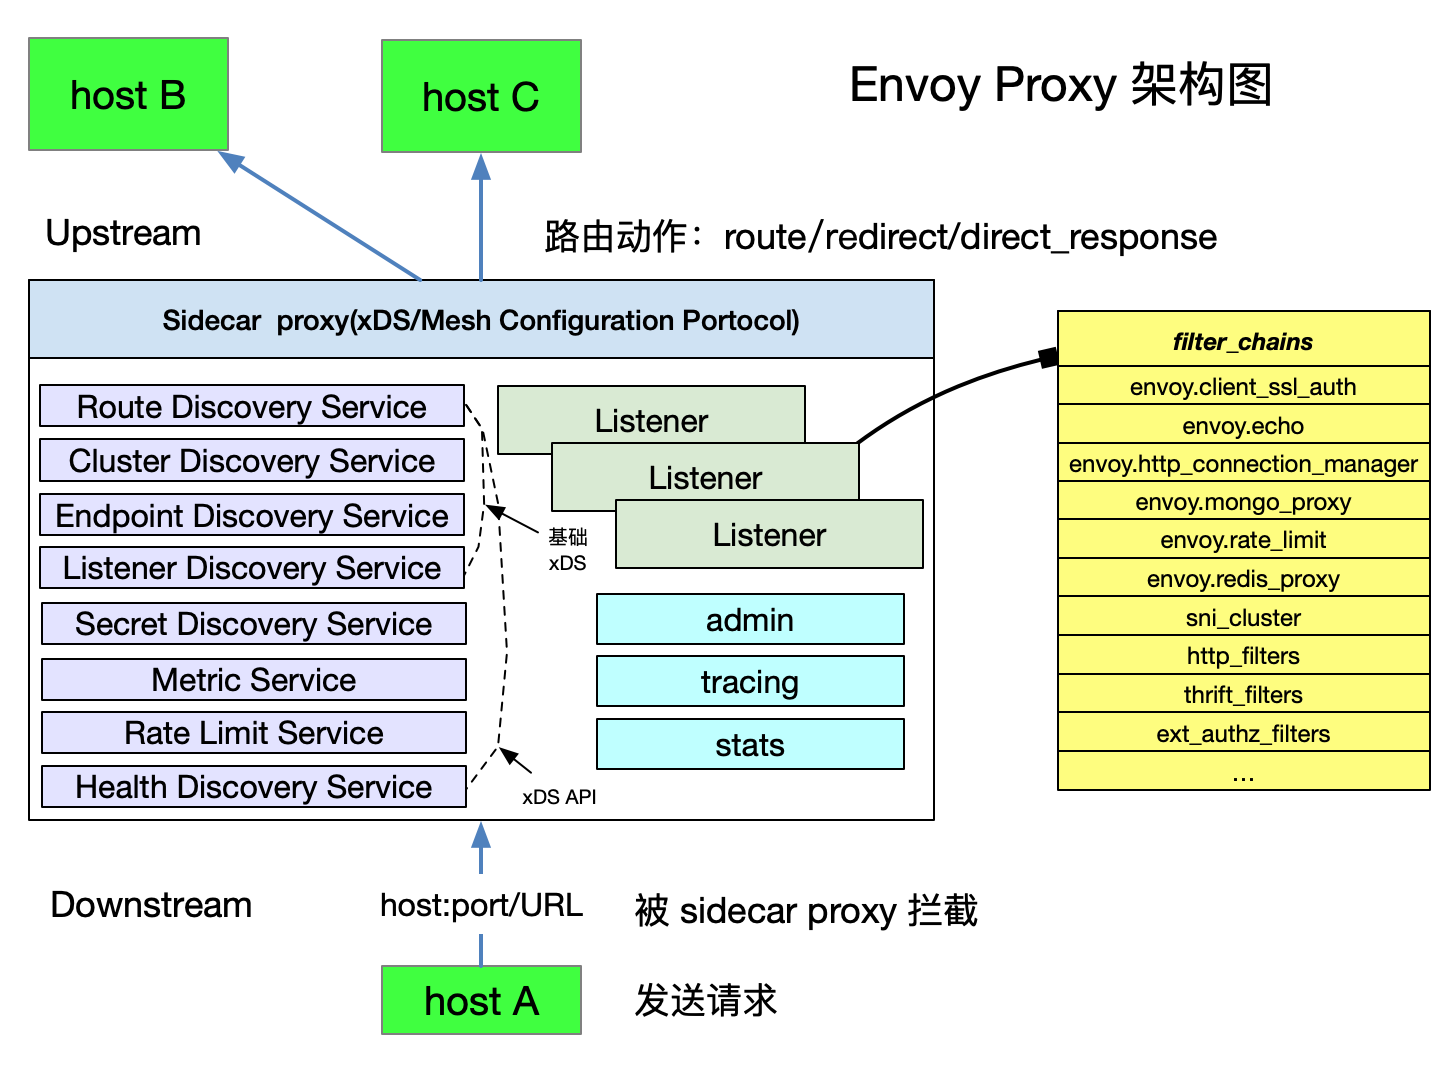
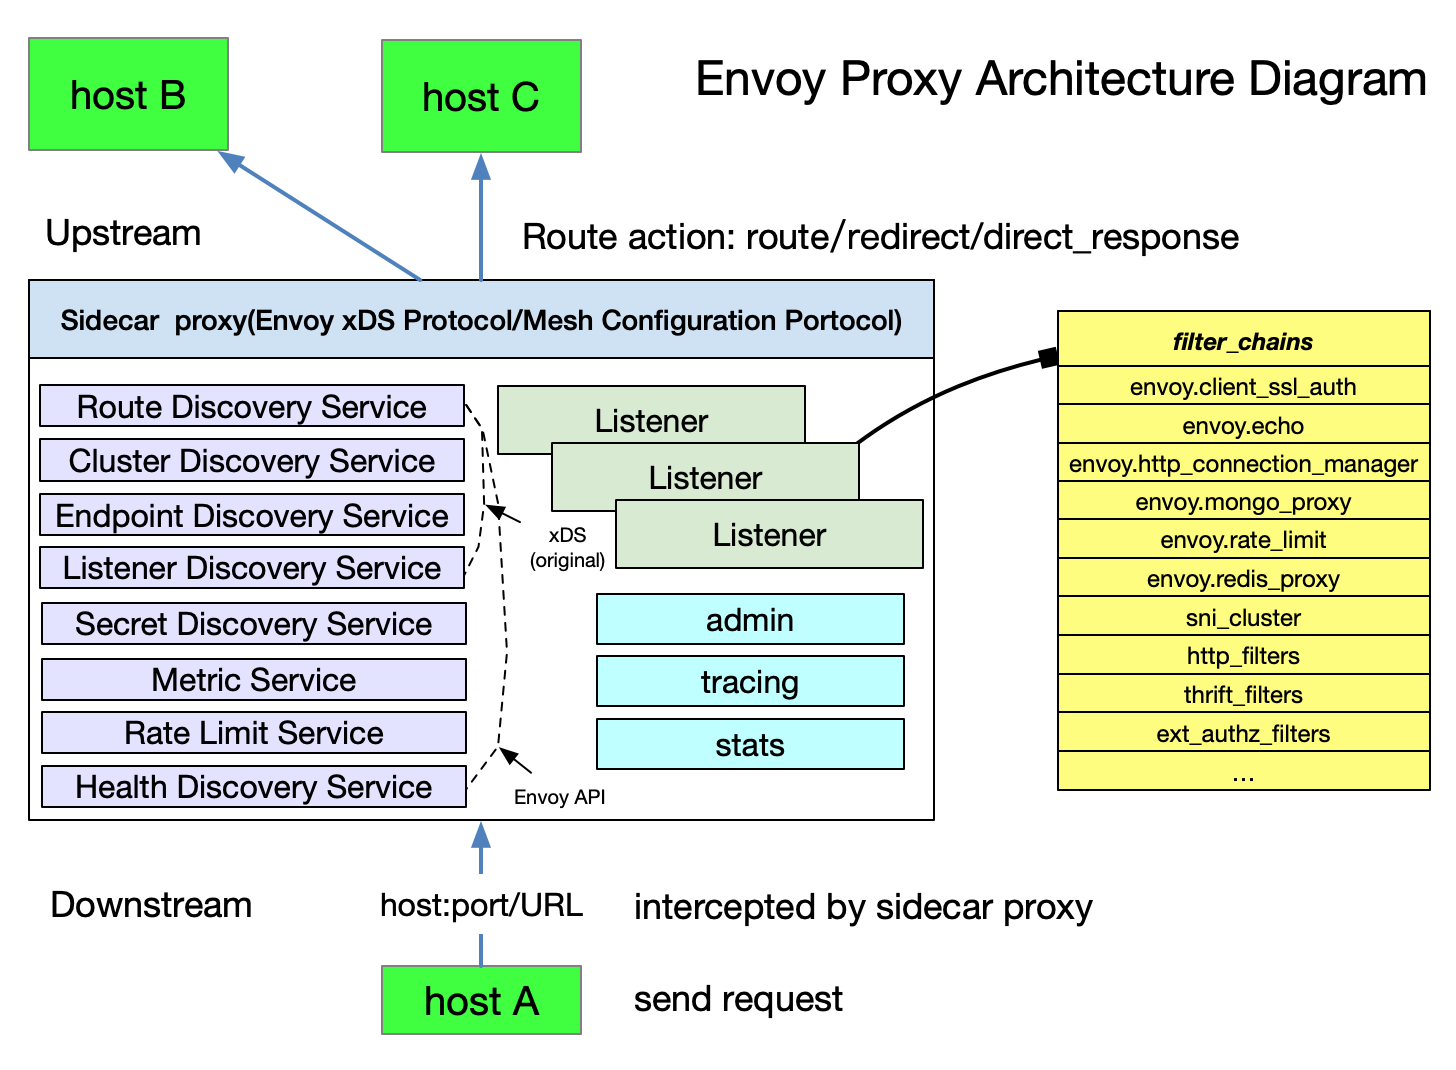
deploy: rootsongjc/website@6b66cf52911d6870a91913865de8feafd0f509e1

diff --git a/blog/service-mesh-the-microservices-in-post-kubernetes-era/index.html b/blog/service-mesh-the-microservices-in-post-kubernetes-era/index.html
@@ -250,7 +250,7 @@
                   href="/categories/service-mesh"> 
                   Service Mesh</a> </li>
               <li class="list-inline-item mr-4 mb-3 mb-md-0 text-light"><span class="font-weight-bold mr-2">字数
-                  :</span>5124 字</li>
+                  :</span>5088 字</li>
               <li class="list-inline-item mr-4 mb-3 mb-md-0 text-light"><span class="font-weight-bold mr-2">阅读大约需要
                   :</span>23 分钟</li>
             </ul>
@@ -261,9 +261,7 @@
           </div>
           
           <div class="col-12 content">
-            <p>本文是以前所写内容的重新修订并收录于 ServiceMesher 社区的 <a href="https://www.servicemesher.com/istio-handbook" title="Istio Handbook" target="_blank" rel="noopener">Istio Handbook</a>
- 中，其他章节仍在编纂中。</p>
-<p>如果你刚听说 Service Mesh 不久，并试用过 <a href="https://istio.io" title="Istio" target="_blank" rel="noopener">Istio</a>
+            <p>如果你刚听说 Service Mesh 不久，并试用过 <a href="https://istio.io" title="Istio" target="_blank" rel="noopener">Istio</a>
  的话，那么你可能都会有下面几个疑问：</p>
 <ol>
 <li>为什么 Istio 要运行在 Kubernetes 上呢？</li>
@@ -405,7 +403,7 @@
 ，本文引用其中的一些观点，详细内容不再赘述。</p>
 <p>
   <figure>
-  <img src="envoy-arch.png" alt="Envoy proxy 架构图">
+  <img src="envoy-arch.jpg" alt="Envoy proxy 架构图">
   
   <figcaption class="text-center">Envoy proxy 架构图</figcaption>
   
